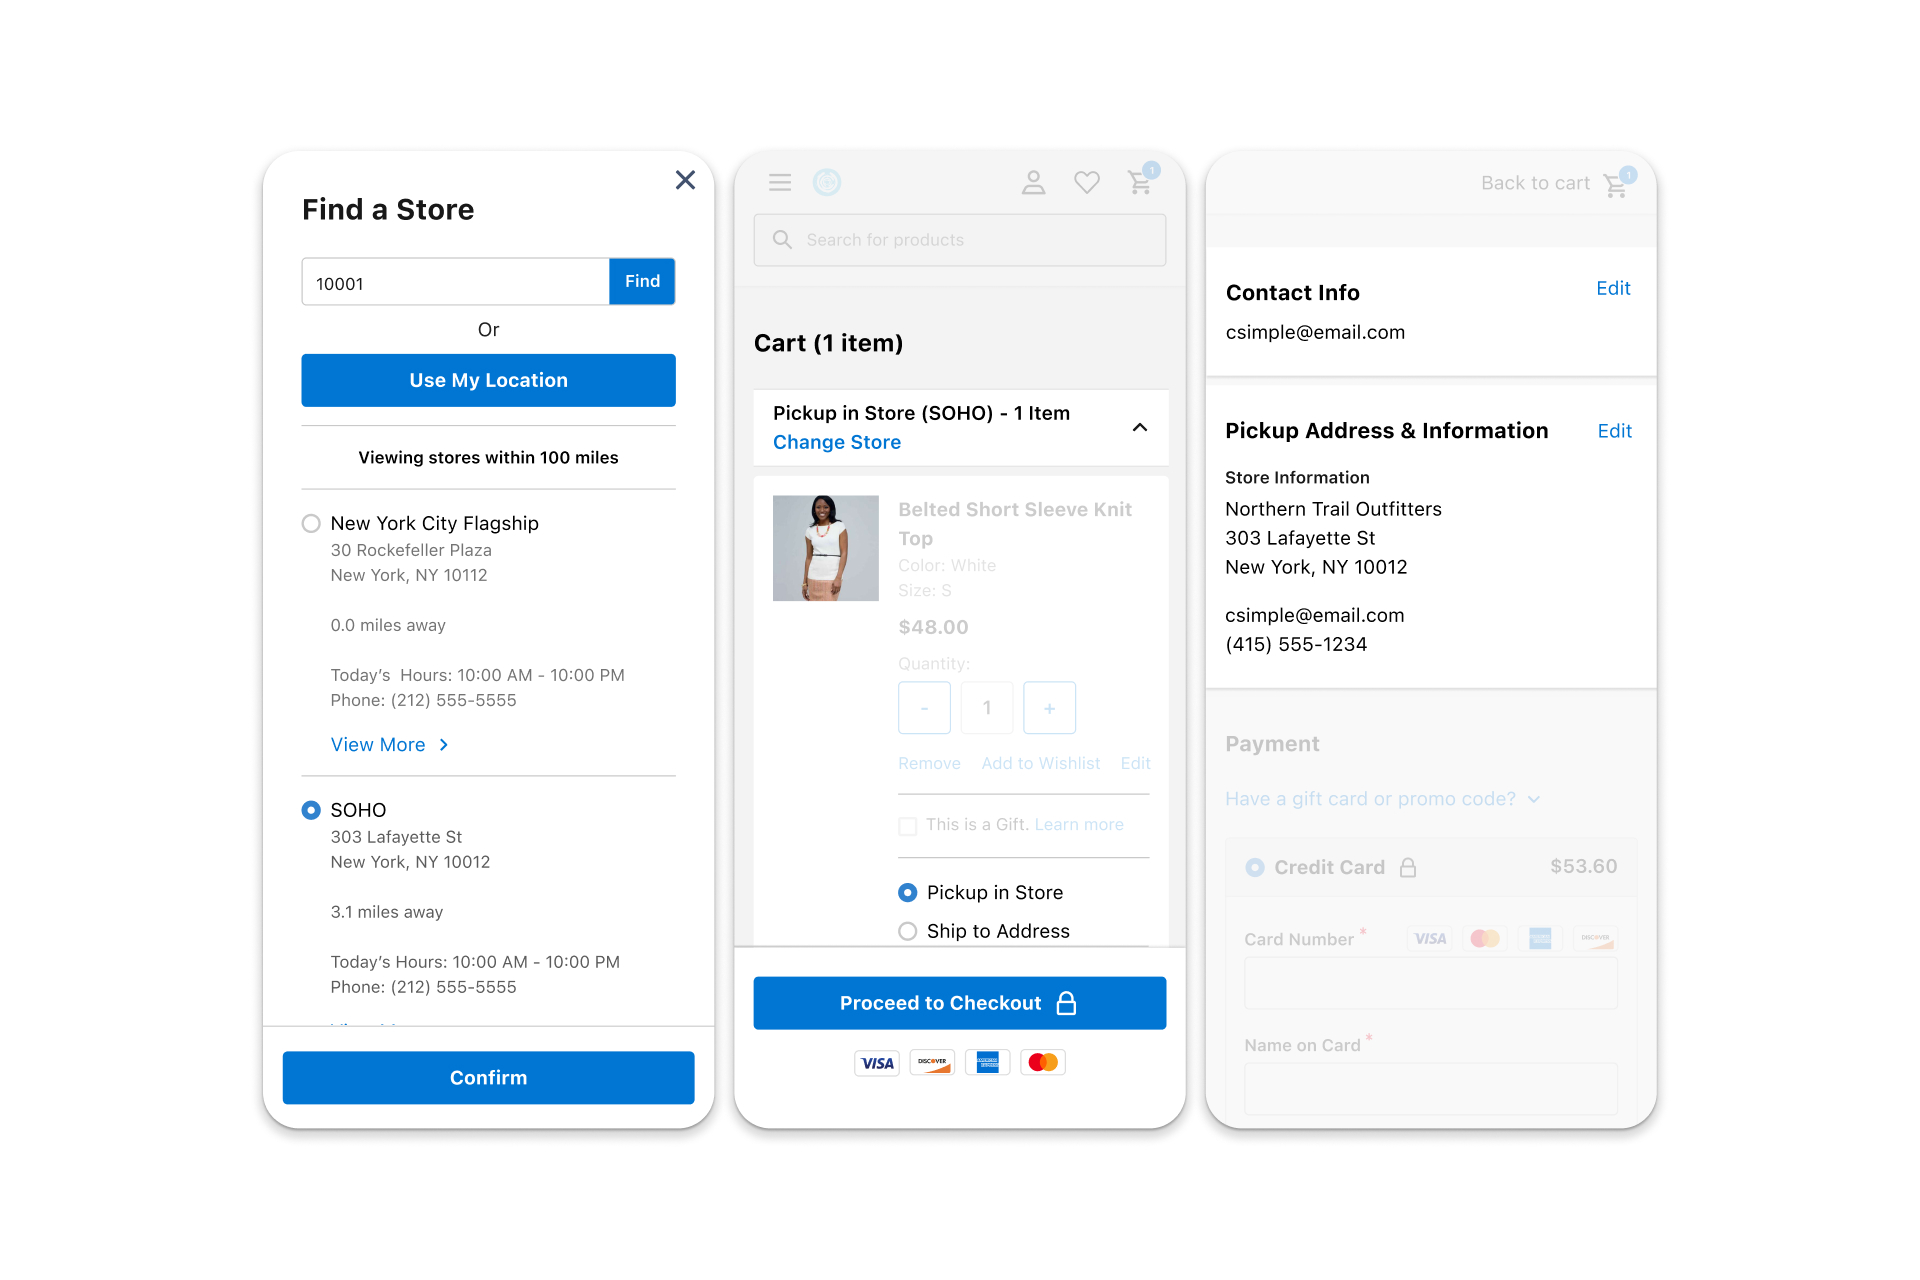
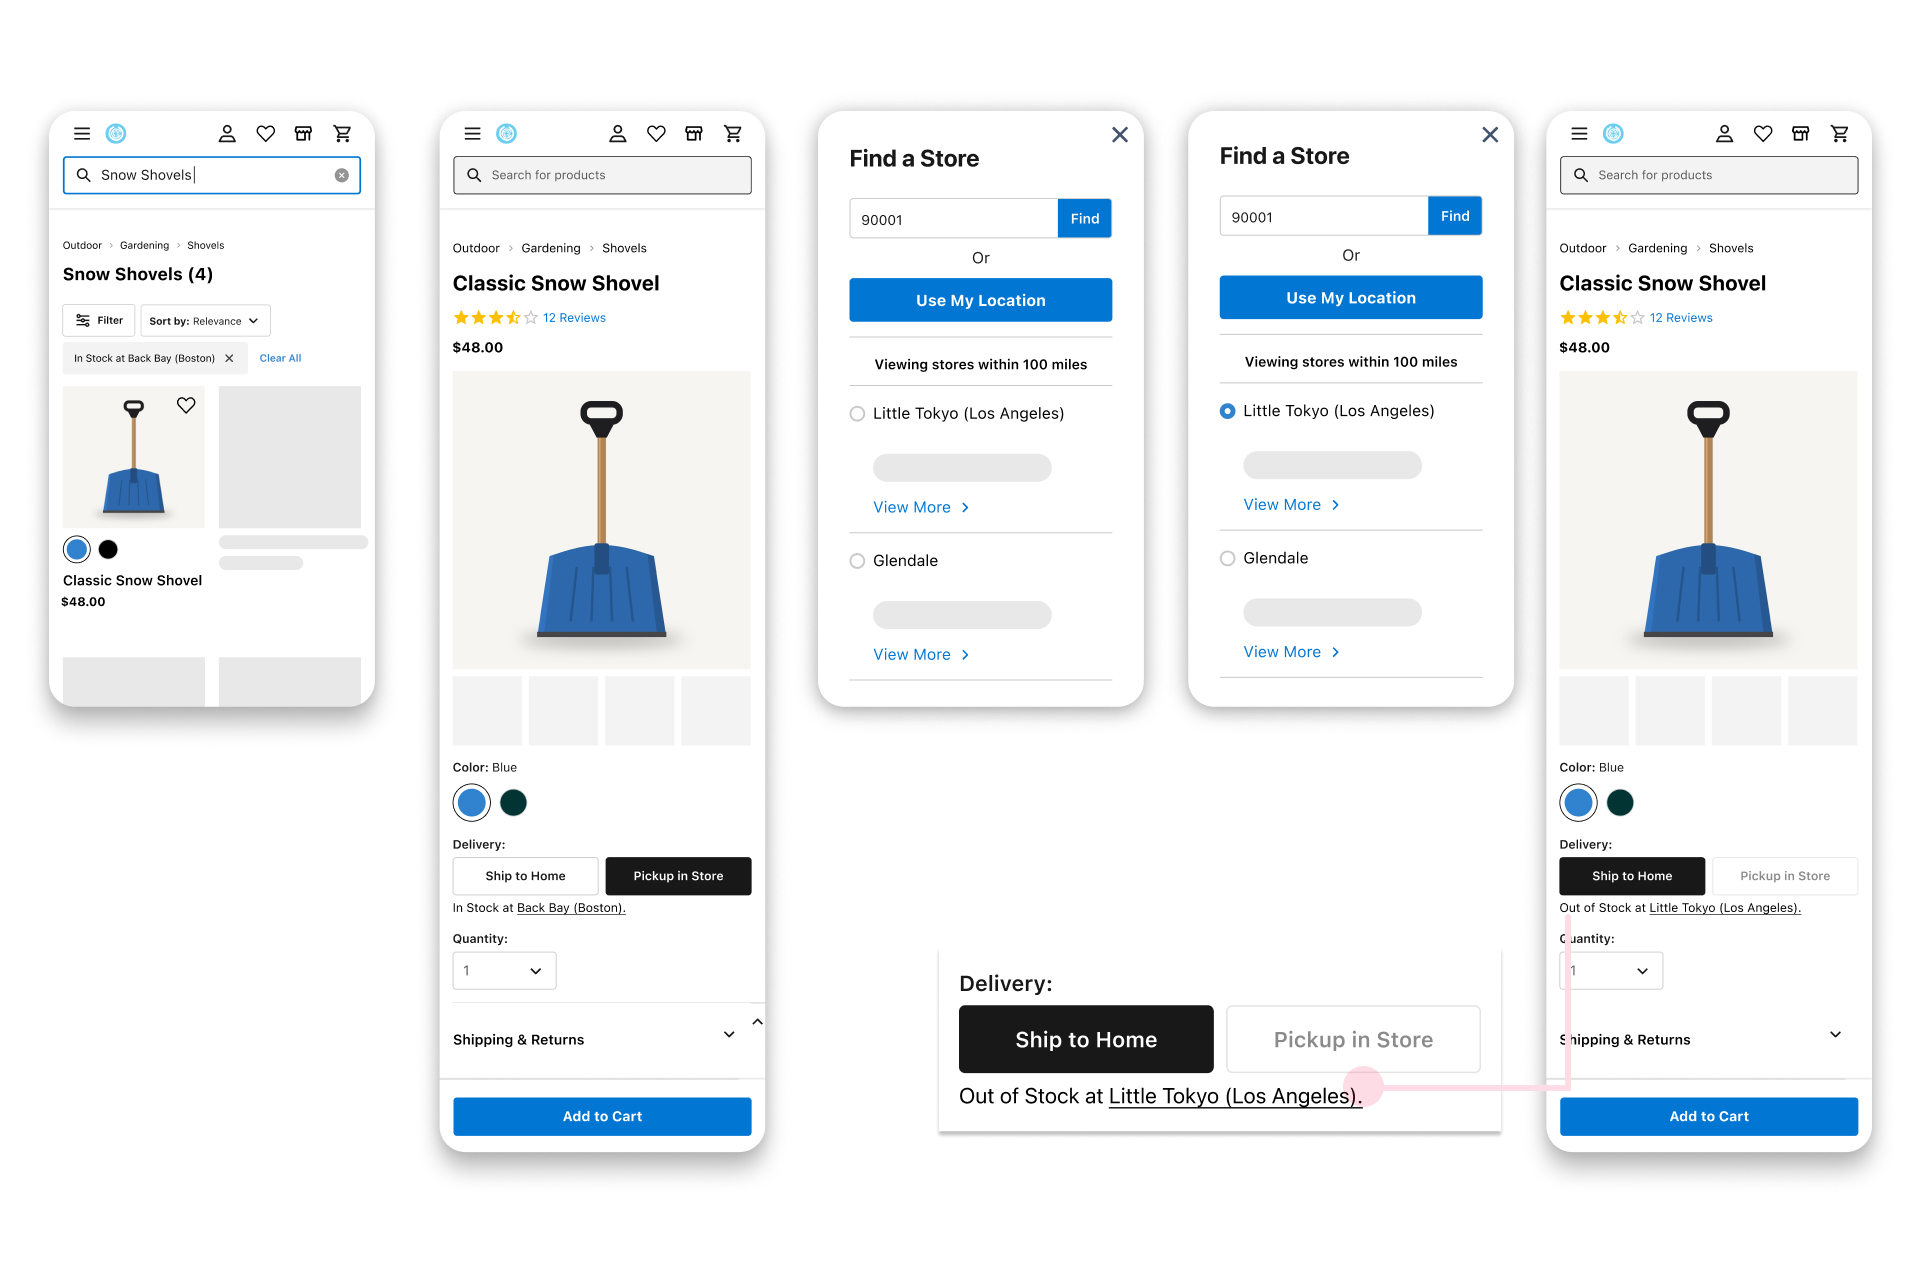
Update content, add Play and Life sections

diff --git a/index.html b/index.html
@@ -245,6 +245,17 @@
     .work-summary .thumb{width:72px; height:72px;}
   }
   :focus-visible{outline:2px solid var(--coral); outline-offset:2px;}
+
+  /* PLAY CARDS (new; reuses existing tokens and .cs-image behavior) */
+  .play-grid{display:grid; grid-template-columns:1fr 1fr; gap:16px; padding-bottom:20px;}
+  .play-card{background:var(--panel); border:1px solid var(--line); border-radius:16px; overflow:hidden;}
+  .play-card .cs-image{margin-top:0; aspect-ratio:4/3; border:none; border-bottom:1px solid var(--line); border-radius:0;}
+  .play-card .pc-body{padding:20px 24px 24px;}
+  .play-card .tag{font-size:11.5px; font-weight:700; text-transform:uppercase; letter-spacing:.05em; color:var(--ink-soft);}
+  .play-card h3{font-family:'Fraunces', serif; font-weight:700; font-size:19px; margin-top:4px;}
+  .play-card p{font-size:15px; color:var(--ink); opacity:0.85; margin-top:8px;}
+  .play-card .meta{font-size:13.5px; color:var(--ink-soft); opacity:1; margin-top:12px;}
+  @media (max-width:640px){ .play-grid{grid-template-columns:1fr;} }
 </style>
 </head>
 <body>
@@ -255,6 +266,7 @@
     <div class="nav-links">
       <a href="#work">Work</a>
       <a href="#play">Play</a>
+      <a href="#life">Life</a>
     </div>
   </div>
 </nav>
@@ -286,7 +298,7 @@
         <div class="body">
           <span class="tag">Commerce Experience</span>
           <h3>PWA Kit BOPIS</h3>
-          <p>Turned one of our biggest per-customer custom builds into an out-of-the-box capability — recognized with the Commerce Cloud Q2 2025 UX All-Star award.</p>
+          <p>Defined how BOPIS could become an out-of-the-box capability instead of a costly custom build, shipping its core components and earning the Commerce Cloud Q2 2025 UX All-Star award.</p>
         </div>
         <span class="chevron" aria-hidden="true">⌄</span>
       </summary>
@@ -294,7 +306,7 @@
         <div class="cs-role">Design Lead · Salesforce Commerce Cloud, 2025</div>
 
         <div class="cs-image">
-          <img src="images/bopis-hero.jpg" alt="PWA Kit BOPIS hero image" onload="this.classList.add('is-loaded')">
+          <img src="images/bopis-hero.jpg" alt="Shipped PWA Kit screens: product listing, store locator, and product detail page with in-store pickup option" onload="this.classList.add('is-loaded')">
           <span class="cs-image-label">Drop images/bopis-hero.jpg in locally to fill this</span>
         </div>
 
@@ -307,6 +319,16 @@
           <ul>
             <li>Reviewed how BOPIS was built across the eCommerce space, not to copy existing patterns but to find where competitors converged. That convergence became the basis for what could safely be "generic."</li>
             <li>Developed a vision defining the key touchpoints and needs, then validated it with Customer Success against real research examples before investing further, rather than designing in isolation and finding out later it didn't hold up.</li>
+          </ul>
+        </div>
+
+        <div class="cs-image">
+          <img src="images/bopis-flow.jpg" alt="BOPIS shopper flow mapping the key touchpoints from browsing to in-store pickup" onload="this.classList.add('is-loaded')">
+          <span class="cs-image-label">Drop images/bopis-flow.jpg in locally to fill this</span>
+        </div>
+
+        <div class="cs-block">
+          <ul>
             <li>Refined the vision based on that feedback, building in how Customer Success and Support needed to handle individual customer stories. The design had to work for the team supporting it, not just the shopper.</li>
             <li>Defined the vision through to Store Locator/Selection and PLP/PDP, the components that ultimately shipped, before a team reorg moved execution to another designer.</li>
           </ul>
@@ -318,11 +340,11 @@
 
         <div class="cs-result">
           <div class="k">Result</div>
-          <div class="v">Delivered Store Locator/Selection and PLP/PDP impact as core BOPIS components; recognized with the Commerce Cloud Q2 2025 UX All-Star award.</div>
+          <div class="v">Store Locator/Selection and PLP/PDP shipped as the core BOPIS components, part of broader PWA Kit work that contributed to a +29 point NPS improvement over two years. Recognized with the Commerce Cloud Q2 2025 UX All-Star award.</div>
         </div>
 
         <div class="cs-image">
-          <img src="images/bopis-detail.jpg" alt="PWA Kit BOPIS detail image" onload="this.classList.add('is-loaded')">
+          <img src="images/bopis-detail.jpg" alt="The same snow shovel product page across three stores: in stock in Boston, limited in a third city, unavailable in Los Angeles" onload="this.classList.add('is-loaded')">
           <span class="cs-image-label">Drop images/bopis-detail.jpg in locally to fill this</span>
         </div>
       </div>
@@ -356,8 +378,18 @@
         <div class="cs-block">
           <h4>What I Did</h4>
           <ul>
-            <li>Took in the product ask and produced low-fidelity concepts of several potential patterns, including private options behind a popup, radio-button-driven progressive disclosure, and read-only states.</li>
-            <li>Defined key patterns with the lead designer overseeing overall pattern transition across the product, translating concepts into Lightning components consistent with Commerce Cloud's system.</li>
+            <li>Explored ten low-fidelity concepts for the product ask, including private options behind a popup, radio-button-driven progressive disclosure, and read-only states. Three variants are shown below: one fitting within the parameters of the PRD, one broken out into sections, and one with advanced settings collapsed.</li>
+          </ul>
+        </div>
+
+        <div class="cs-image">
+          <img src="images/hybrid-auth-concepts.jpg" alt="Three low-fidelity variants for the Hybrid Authentication Settings page: fitting within the PRD, broken out into sections, and advanced settings collapsed" onload="this.classList.add('is-loaded')">
+          <span class="cs-image-label">Drop images/hybrid-auth-concepts.jpg in locally to fill this</span>
+        </div>
+
+        <div class="cs-block">
+          <ul>
+            <li>Defined key patterns with the lead designer overseeing the pattern transition across the product, translating concepts into Lightning components consistent with Commerce Cloud's system.</li>
             <li>Synced with the Content Experience team for cross-team consistency.</li>
             <li>Built in Figma and iterated with engineering as they uncovered constraints migrating functionality to the new tech stack.</li>
           </ul>
@@ -434,8 +466,45 @@
 
   </div>
 
-  <div id="play" class="play-strip">
-    <div class="label">Play</div>
+</section>
+
+<section id="play" class="wrap">
+  <div class="section-head">
+    <h2>Play</h2>
+  </div>
+
+  <div class="play-grid">
+    <article class="play-card">
+      <div class="cs-image">
+        <img src="images/play-uniform.jpg" alt="Grand Rapids Griffins uniform designed for the global contest, worn during a 2015 game" onload="this.classList.add('is-loaded')">
+        <span class="cs-image-label">Drop images/play-uniform.jpg in locally to fill this</span>
+      </div>
+      <div class="pc-body">
+        <span class="tag">Visual Design</span>
+        <h3>Grand Rapids Griffins Uniform</h3>
+        <p>Won a global design contest to create an official uniform for the Grand Rapids Griffins, the AHL affiliate of the Detroit Red Wings. I saw the team as representing all of Michigan, so the design tells the state's story: a crest inspired by medieval tapestries, championship markers borrowed from soccer jerseys to honor the team's recent Calder Cup win, and elements of the state motto woven in.</p>
+        <p class="meta">Contest 2014 · Worn during the 2015 season</p>
+      </div>
+    </article>
+
+    <article class="play-card">
+      <div class="cs-image">
+        <img src="images/play-logo.jpg" alt="Dallas Heroes Project logo, inspired by the Dallas city flag" onload="this.classList.add('is-loaded')">
+        <span class="cs-image-label">Drop images/play-logo.jpg in locally to fill this</span>
+      </div>
+      <div class="pc-body">
+        <span class="tag">Brand Identity</span>
+        <h3>Dallas Heroes Project Logo</h3>
+        <p>I'm not from Dallas, so the goal was a mark that felt like it belonged to the community it serves. I took my cue from the Dallas city flag, so the logo would feel rooted in the city.</p>
+        <p class="meta">2016</p>
+      </div>
+    </article>
+  </div>
+</section>
+
+<section id="life" class="wrap">
+  <div class="play-strip">
+    <div class="label">Life</div>
     <div class="play-chips">
       <a href="https://open.spotify.com/playlist/00nMeQ0FhSsgzI44jnIjsF?si=bJ34EXJASzyBcLUjgcIchA" class="chip chip-music">🎵 Music <span class="chip-arrow">↗</span></a>
       <span class="chip chip-hockey" id="hockeyChip" data-default="🏒 Hockey" data-revealed="Stick Specs: P28, Flex: 65">🏒 Hockey</span>
